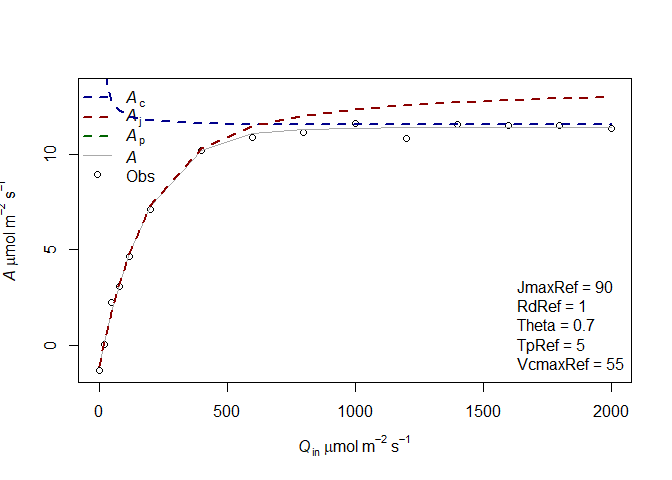
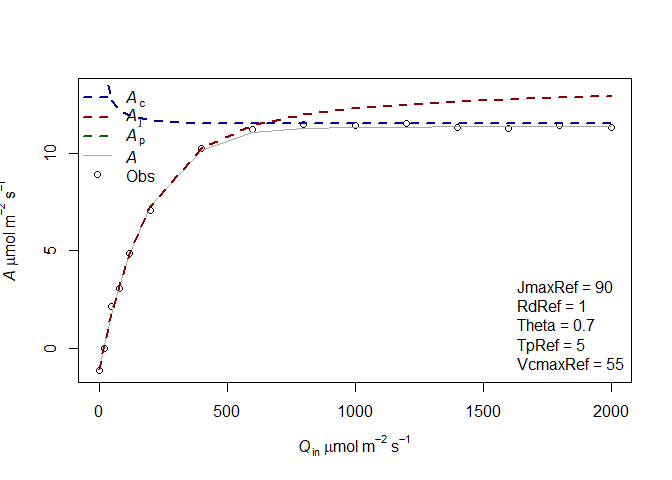
Update vignette

diff --git a/vignettes/Aq_fitting.md b/vignettes/Aq_fitting.md
@@ -32,7 +32,7 @@ corresponds to the leaf absorptance.
 
     # Here we include a normal error 
 
-    simul$A=simul$A+rnorm(n=length(simul$A),mean = 0,sd = 0.3)
+    simul$A=simul$A+rnorm(n=length(simul$A),mean = 0,sd = 0.2)
     measures=data.frame(Tleaf=Tleaf,Ci=simul$ci,Qin=PAR,A=simul$A)
 
 We display this simulated curve using the function f.plot
@@ -54,7 +54,7 @@ For example:
 
     # Here we include a normal error 
 
-    simul2$A=simul2$A+rnorm(n=length(simul2$A),mean = 0,sd = 0.3)
+    simul2$A=simul2$A+rnorm(n=length(simul2$A),mean = 0,sd = 0.2)
     measures2=data.frame(Tleaf=Tleaf,Ci=simul2$ci,Qin=PAR,A=simul2$A)
     f.plot(measures = measures2,type = 'Aq',list_legend = param2[c('VcmaxRef','JmaxRef','TpRef','RdRef','Theta')],param = param2)
 
@@ -81,14 +81,14 @@ the photosynthesis rates. We’ll revisit this assumption later.
 
     ## $par
     ##    JmaxRef      RdRef      Theta 
-    ## 89.9712392  1.1241761  0.7562085 
+    ## 88.5374778  1.0515467  0.7695185 
     ## 
     ## $value
-    ## [1] 1.137301
+    ## [1] 0.4157516
     ## 
     ## $counts
     ## function gradient 
-    ##      110       NA 
+    ##      126       NA 
     ## 
     ## $convergence
     ## [1] 0
@@ -96,7 +96,7 @@ the photosynthesis rates. We’ll revisit this assumption later.
     ## $message
     ## NULL
     ## 
-    ## [1] "sd 0.275354423673918"
+    ## [1] "sd 0.16648354914332"
     ## Length  Class   Mode 
     ##      1   mle2     S4
 
@@ -110,15 +110,15 @@ information in the curve to estimate it.
                        modify.init=TRUE,do.plot=TRUE,type='Aq')
 
     ## $par
-    ##   JmaxRef  VcmaxRef     RdRef     Theta 
-    ## 93.295444 62.617218  1.090212  0.710990 
+    ##    JmaxRef   VcmaxRef      RdRef      Theta 
+    ## 89.4501227 66.6059766  1.0459856  0.7619516 
     ## 
     ## $value
-    ## [1] 1.079666
+    ## [1] 0.4128538
     ## 
     ## $counts
     ## function gradient 
-    ##      425       NA 
+    ##      281       NA 
     ## 
     ## $convergence
     ## [1] 0
@@ -126,7 +126,7 @@ information in the curve to estimate it.
     ## $message
     ## NULL
     ## 
-    ## [1] "sd 0.268286688021414"
+    ## [1] "sd 0.165902339363218"
     ## Length  Class   Mode 
     ##      1   mle2     S4
 
@@ -145,10 +145,10 @@ info).
     confint(fitting1[[2]])
 
     ##              2.5 %     97.5 %
-    ## sigma    0.2001556  0.4133620
-    ## JmaxRef 87.5057929 92.5227812
-    ## RdRef    0.8591327  1.3861695
-    ## Theta    0.6657821  0.8270025
+    ## sigma    0.1210171  0.2499251
+    ## JmaxRef 87.0602623 90.0448643
+    ## RdRef    0.8903033  1.2114000
+    ## Theta    0.7176668  0.8139842
 
 It is possible to compare the AIC of the two models using the base
 function AIC or BIC. The lower AIC or BIC corresponds to the best model.
@@ -156,11 +156,11 @@ It shows in this case that adding VcmaxRef is not usefull.
 
     BIC(fitting1[[2]])
 
-    ## [1] 9.422447
+    ## [1] -5.672432
 
     BIC(fitting2[[2]])
 
-    ## [1] 10.02865
+    ## [1] -4.391054
 
 We can redo this procedure for the second simulated curve:
 
@@ -169,14 +169,14 @@ We can redo this procedure for the second simulated curve:
 
     ## $par
     ##    JmaxRef      RdRef      Theta 
-    ## 80.4394879  1.0774293  0.8045951 
+    ## 80.8048737  1.1032552  0.8302611 
     ## 
     ## $value
-    ## [1] 1.080278
+    ## [1] 1.007885
     ## 
     ## $counts
     ## function gradient 
-    ##      106       NA 
+    ##      120       NA 
     ## 
     ## $convergence
     ## [1] 0
@@ -184,7 +184,7 @@ We can redo this procedure for the second simulated curve:
     ## $message
     ## NULL
     ## 
-    ## [1] "sd 0.268362699108731"
+    ## [1] "sd 0.259214852341732"
     ## Length  Class   Mode 
     ##      1   mle2     S4
 
@@ -195,14 +195,14 @@ We can redo this procedure for the second simulated curve:
 
     ## $par
     ##    JmaxRef      RdRef      Theta   VcmaxRef 
-    ## 89.0847230  0.9900322  0.6818325 54.7903712 
+    ## 96.8103899  0.9571274  0.6111154 54.6681592 
     ## 
     ## $value
-    ## [1] 0.7971008
+    ## [1] 0.2908847
     ## 
     ## $counts
     ## function gradient 
-    ##      483       NA 
+    ##      401       NA 
     ## 
     ## $convergence
     ## [1] 0
@@ -210,7 +210,7 @@ We can redo this procedure for the second simulated curve:
     ## $message
     ## NULL
     ## 
-    ## [1] "sd 0.230521271470263"
+    ## [1] "sd 0.139256285645197"
     ## Length  Class   Mode 
     ##      1   mle2     S4
 
@@ -221,11 +221,11 @@ parameter to estimate:
 
     BIC(fitting3[[2]])
 
-    ## [1] 8.650857
+    ## [1] 7.610392
 
     BIC(fitting4[[2]])
 
-    ## [1] 5.477261
+    ## [1] -9.643558
 
 In this case, the model with VcmaxRef is better.
 
